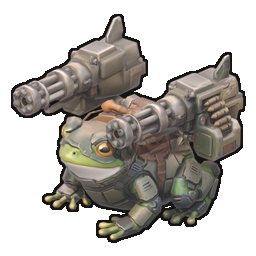
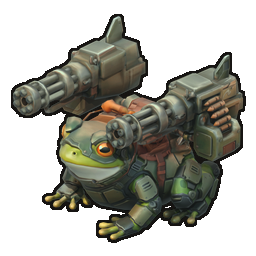
HUD: a long machine name fits its card (BULLFROG was cut to BULLFR...); the Bullfrog's portraits graded like its atlas

diff --git a/trench-warfare-3d/Assets/_Project/UI/HudView.cs b/trench-warfare-3d/Assets/_Project/UI/HudView.cs
@@ -108,6 +108,8 @@ namespace TW.UI
                 card.Hotkey.text = HudText.Hotkey(s);
                 card.Label = HudText.Name(e.Archetype).ToUpperInvariant();
                 card.Name.text = card.Label;
+                // a machine's card is narrow: a name past seven letters ("BULLFROG") was cut to "BULLFR..." at 10 px
+                card.Name.EnableInClassList("tw-card__nameplate--long", e.IsVehicle && card.Label.Length > 7);
                 SetPortrait(card, HudText.PortraitName(e.Archetype));
                 SetWeaponBadge(card, e.Archetype);
                 r.Cards.Add(card);
